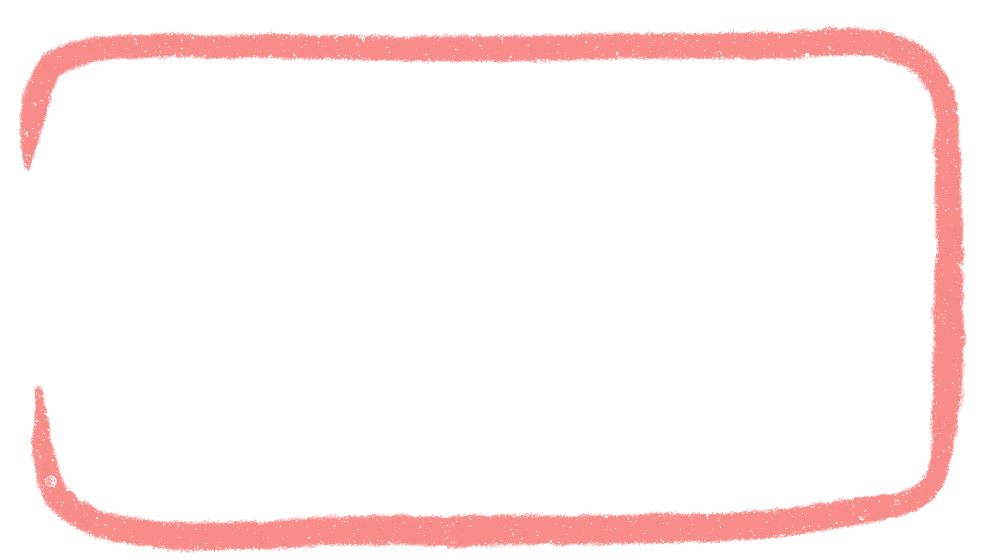
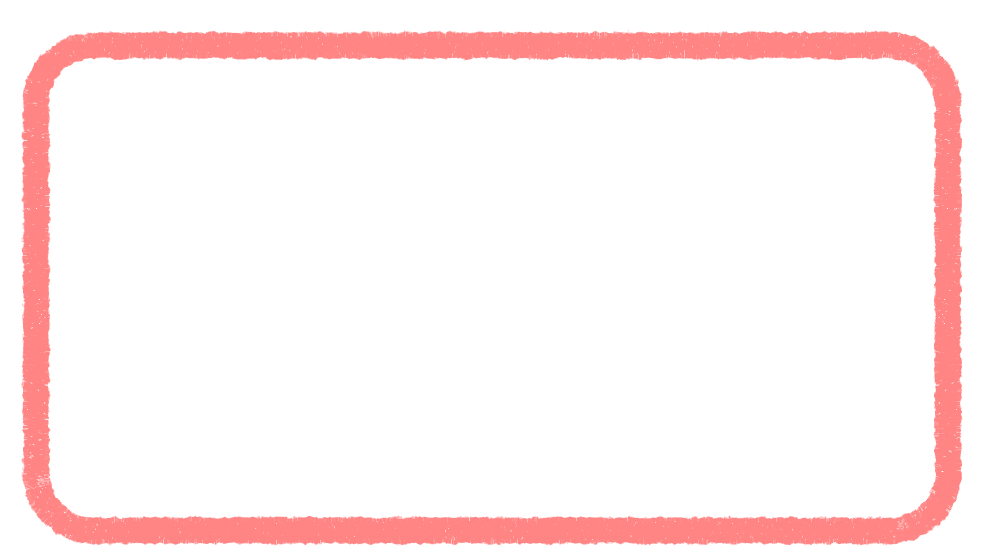
Smooth the hand-drawn border while keeping its crayon texture
The export script now redraws the border as an even rounded rectangle
fitted to the original stroke, filled with texture sampled from the
middle of the hand-drawn stroke and given a soft crayon edge. The
backgrounds are trimmed to the new border and their edge gaps filled.
Source drawings in PNGs/ are unchanged.

diff --git a/scripts/export_art.swift b/scripts/export_art.swift
@@ -53,9 +53,159 @@ func thicken(_ image: CGImage, by radius: Int) -> CGImage {
 /// How much bolder the numbers and controls are than the original drawings, in design pixels.
 let strokeBoost = 6
 
-for name in ["white_bg", "pink_bg", "border"] {
-    save(load(name), name)
+/// The smoothed border: a rounded rectangle fitted to the median of the hand-drawn stroke on each side.
+enum Outline {
+    static let left = 36.0, right = 948.0, top = 45.5, bottom = 530.5
+    static let radius = 58.0, thickness = 26.0
+    static let cx = (left + right) / 2, cy = (top + bottom) / 2
+    static let hx = (right - left) / 2, hy = (bottom - top) / 2
+
+    /// Signed distance to the stroke's centerline (negative inside the card).
+    static func sdf(_ x: Double, _ y: Double) -> Double {
+        let qx = abs(x - cx) - (hx - radius), qy = abs(y - cy) - (hy - radius)
+        let outside = (max(qx, 0) * max(qx, 0) + max(qy, 0) * max(qy, 0)).squareRoot()
+        return outside + min(max(qx, qy), 0) - radius
+    }
 }
+
+/// Pixel access for an image, top-left origin, premultiplied RGBA 0...255.
+struct Pixels {
+    let w: Int, h: Int
+    let data: UnsafeMutablePointer<UInt8>
+    let context: CGContext
+
+    init(_ image: CGImage) { self.init(width: image.width, height: image.height); context.draw(image, in: CGRect(x: 0, y: 0, width: w, height: h)) }
+
+    init(width: Int, height: Int) {
+        w = width; h = height
+        context = CGContext(data: nil, width: w, height: h, bitsPerComponent: 8, bytesPerRow: w * 4,
+                            space: CGColorSpaceCreateDeviceRGB(), bitmapInfo: CGImageAlphaInfo.premultipliedLast.rawValue)!
+        // Bitmap memory is top-down, so rows here match the image's top-left origin.
+        data = context.data!.assumingMemoryBound(to: UInt8.self)
+    }
+
+    /// Bilinear sample at a point in pixel coordinates.
+    func sample(_ x: Double, _ y: Double) -> (Double, Double, Double, Double) {
+        let x0 = Int(floor(x - 0.5)), y0 = Int(floor(y - 0.5))
+        let fx = x - 0.5 - Double(x0), fy = y - 0.5 - Double(y0)
+        var out = (0.0, 0.0, 0.0, 0.0)
+        for (dx, dy, wt) in [(0, 0, (1 - fx) * (1 - fy)), (1, 0, fx * (1 - fy)), (0, 1, (1 - fx) * fy), (1, 1, fx * fy)] {
+            let sx = x0 + dx, sy = y0 + dy
+            guard sx >= 0, sx < w, sy >= 0, sy < h, wt > 0 else { continue }
+            let i = (sy * w + sx) * 4
+            out.0 += Double(data[i]) * wt; out.1 += Double(data[i + 1]) * wt
+            out.2 += Double(data[i + 2]) * wt; out.3 += Double(data[i + 3]) * wt
+        }
+        return out
+    }
+
+    func set(_ x: Int, _ y: Int, _ c: (Double, Double, Double, Double)) {
+        let i = (y * w + x) * 4
+        data[i] = UInt8(max(0, min(255, c.0.rounded()))); data[i + 1] = UInt8(max(0, min(255, c.1.rounded())))
+        data[i + 2] = UInt8(max(0, min(255, c.2.rounded()))); data[i + 3] = UInt8(max(0, min(255, c.3.rounded())))
+    }
+
+    var image: CGImage { context.makeImage()! }
+}
+
+/// Smooth random value in 0...1 that varies over roughly `scale` pixels (value noise).
+func noise(_ x: Double, _ y: Double, scale: Double, seed: UInt64) -> Double {
+    func hash(_ ix: Int, _ iy: Int) -> Double {
+        var z = UInt64(bitPattern: Int64(ix &* 73856093 ^ iy &* 19349663)) &+ seed
+        z = (z ^ (z >> 30)) &* 0xbf58476d1ce4e5b9; z = (z ^ (z >> 27)) &* 0x94d049bb133111eb; z ^= z >> 31
+        return Double(z % 10_000) / 10_000
+    }
+    let sx = x / scale, sy = y / scale
+    let ix = Int(floor(sx)), iy = Int(floor(sy))
+    var fx = sx - Double(ix), fy = sy - Double(iy)
+    fx = fx * fx * (3 - 2 * fx); fy = fy * fy * (3 - 2 * fy)
+    let top = hash(ix, iy) * (1 - fx) + hash(ix + 1, iy) * fx
+    let bottom = hash(ix, iy + 1) * (1 - fx) + hash(ix + 1, iy + 1) * fx
+    return top * (1 - fy) + bottom * fy
+}
+
+/// Evens out the hand-drawn border: the stroke follows the smooth `Outline` at one thickness,
+/// filled with the crayon texture copied from the middle of the original stroke. For each point
+/// on the new outline it looks straight across the original stroke at that spot and stretches
+/// that slice to the even thickness. The edges get a gentle crayon-like roughness of their own.
+func smoothBorder(_ image: CGImage) -> CGImage {
+    let src = Pixels(image), out = Pixels(width: image.width, height: image.height)
+    let half = Outline.thickness / 2
+
+    /// Where the original stroke starts and ends along a line (in steps from `origin`), if it's there.
+    func strokeSpan(from origin: (Double, Double), along n: (Double, Double)) -> (Double, Double)? {
+        var spans: [(Double, Double)] = []
+        var start: Double?
+        for step in stride(from: -48.0, through: 48.0, by: 1) {
+            let solid = src.sample(origin.0 + n.0 * step, origin.1 + n.1 * step).3 > 90
+            if solid, start == nil { start = step }
+            if !solid, let s = start { spans.append((s, step - 1)); start = nil }
+        }
+        if let s = start { spans.append((s, 48)) }
+        // The stroke closest to the new centerline, and only if it's substantial enough to stretch.
+        return spans.filter { $0.1 - $0.0 >= 13 }.min { abs($0.0 + $0.1) < abs($1.0 + $1.1) }
+    }
+
+    /// Crayon texture for a point on the new stroke, borrowing from the mirrored side where the drawing has a gap.
+    func texture(_ x: Double, _ y: Double, _ d: Double) -> (Double, Double, Double, Double)? {
+        for (mx, my) in [(x, y), (2 * Outline.cx - x, y), (x, 2 * Outline.cy - y), (2 * Outline.cx - x, 2 * Outline.cy - y)] {
+            let e = 0.25
+            var n = (Outline.sdf(mx + e, my) - Outline.sdf(mx - e, my), Outline.sdf(mx, my + e) - Outline.sdf(mx, my - e))
+            let len = (n.0 * n.0 + n.1 * n.1).squareRoot()
+            guard len > 0 else { continue }
+            n = (n.0 / len, n.1 / len)
+            let onLine = (mx - d * n.0, my - d * n.1)
+            guard let span = strokeSpan(from: onLine, along: n) else { continue }
+            // Stay in the body of the original stroke; its ragged edges are what we're replacing.
+            let u = min(0.88, max(0.12, (d + half) / Outline.thickness))
+            let t = span.0 + u * (span.1 - span.0)
+            return src.sample(onLine.0 + n.0 * t, onLine.1 + n.1 * t)
+        }
+        return nil
+    }
+
+    for y in 0..<out.h {
+        for x in 0..<out.w {
+            let fx = Double(x) + 0.5, fy = Double(y) + 0.5
+            let d = Outline.sdf(fx, fy)
+            guard abs(d) <= half + 4 else { continue }
+            // Gentle wobble on each edge (a couple of pixels over a few px), plus fine grain.
+            let wobble = (noise(fx, fy, scale: 5, seed: d < 0 ? 11 : 29) - 0.5) * 2.6
+                + (noise(fx, fy, scale: 1.6, seed: d < 0 ? 5 : 7) - 0.5) * 1.4
+            let edge = half - abs(d) + wobble
+            let mask = min(1, max(0, edge / 1.4 + 0.5))
+            guard mask > 0, let c = texture(fx, fy, d) else { continue }
+            out.set(x, y, (c.0 * mask, c.1 * mask, c.2 * mask, c.3 * mask))
+        }
+    }
+    return out.image
+}
+
+/// Fits a background layer to the smoothed border: trims anything poking outside it and, with
+/// `fill`, paints the gaps between the background's hand-drawn edge and the border in that color.
+func fitBackground(_ image: CGImage, fill: (Double, Double, Double)? = nil) -> CGImage {
+    let src = Pixels(image), out = Pixels(width: image.width, height: image.height)
+    let half = Outline.thickness / 2
+    for y in 0..<out.h {
+        for x in 0..<out.w {
+            let fx = Double(x) + 0.5, fy = Double(y) + 0.5
+            let d = Outline.sdf(fx, fy)
+            guard d < 0 else { continue }   // under or outside the border's centerline: never visible
+            var c = src.sample(fx, fy)
+            // Near the border, fill whatever the drawing left uncovered (not the specks further in).
+            if let fill, d > -(half + 30) {
+                let gap = 1 - c.3 / 255
+                c = (c.0 + fill.0 * gap, c.1 + fill.1 * gap, c.2 + fill.2 * gap, c.3 + 255 * gap)
+            }
+            out.set(x, y, c)
+        }
+    }
+    return out.image
+}
+
+save(fitBackground(load("white_bg")), "white_bg")
+save(fitBackground(load("pink_bg"), fill: (255, 176, 176)), "pink_bg")   // #FFB0B0, the background's average
+save(smoothBorder(load("border")), "border")
 
 let glyphs = (0...9).map(String.init) + ["colon", "minus", "plus", "play", "pause"]
 for name in glyphs {

diff --git a/README.md b/README.md
@@ -29,7 +29,7 @@ To keep it around, drag `build/Watermelon.app` into your **Applications** folder
 
 All the art is hand-drawn. The layers in `PNGs/` are full 1000 × 560 canvases (the Figma frame).
 `scripts/export_art.swift` turns them into the images the app uses in `Resources/Art/`:
-it copies the backgrounds, crops each digit and control tight, and makes their strokes a bit bolder.
+it smooths the border to an even rounded outline (keeping the crayon texture), fits the backgrounds to it, crops each digit and control tight, and makes their strokes a bit bolder.
 After changing any drawing, run:
 
 ```bash
